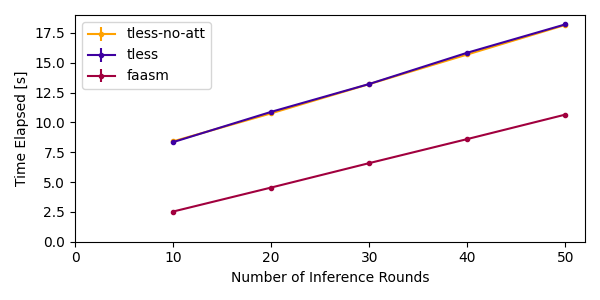
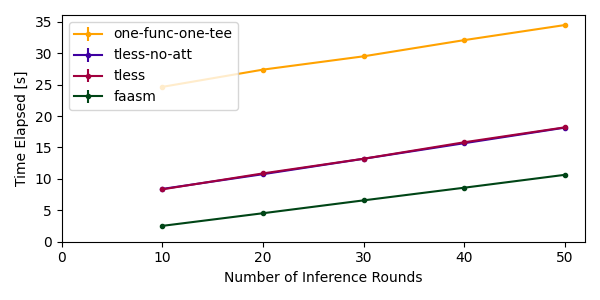
ss: add task to run the strong scaling experiment

diff --git a/tasks/strong_scaling.py b/tasks/strong_scaling.py
@@ -1,0 +1,202 @@
+from invoke import task
+from json import loads as json_loads
+from os import makedirs
+from os.path import exists, join
+from pprint import pprint
+from requests import post, put
+from tasks.util.faasm import (
+    fetch_latest_wasm,
+    flush_hosts,
+    get_faasm_exec_time_from_json,
+    get_faasm_invoke_host_port,
+    get_faasm_upload_host_port,
+)
+from tasks.util.env import (
+    PROJ_ROOT,
+    TLESS_DATA_FILES,
+    TLESS_FUNCTIONS,
+)
+from time import sleep
+
+SS_ROOT = join(PROJ_ROOT, "strong-scaling")
+NUM_NODES = 7
+NUM_CORES_PER_NODE = 4
+modes = {
+    "tless": {},
+    "tless-no-att": {"AZ_ATTESTATION_PROVIDER_URL": "off"},
+    "faasm": {"WASM_VM": "wamr"},
+    "strawman": {"ENCLAVE_ISOLATION_MODE": "faaslet"},
+}
+
+
+@task()
+def wasm(ctx, user_in=None, fetch=False):
+    """
+    Upload the Webassembly files for the TLess image processing pipeline. You
+    can fetch the latest version from the toolchain repo using sudo and --fetch
+    """
+    host, port = get_faasm_upload_host_port()
+    for f in TLESS_FUNCTIONS:
+        if user_in:
+            user = f[0]
+        else:
+            user = f[0]
+        func = f[1]
+        if fetch:
+            fetch_latest_wasm(user, func)
+
+        wasm_file = join(PROJ_ROOT, "wasm", user, func, "function.wasm")
+        if not exists(wasm_file):
+            print("Can not find wasm file: {}".format(wasm_file))
+            print("Consider running with `--fetch`: `inv upload.wasm --fetch`")
+            raise RuntimeError("WASM function not found")
+        url = "http://{}:{}/f/{}/{}".format(host, port, user, func)
+        print("Putting function to {}".format(url))
+        response = put(url, data=open(wasm_file, "rb"))
+        print("Response {}: {}".format(response.status_code, response.text))
+
+
+@task
+def data(ctx):
+    """
+    Upload the auxiliary data files for the TLess image processing pipeline
+    """
+    host, port = get_faasm_upload_host_port()
+    url = "http://{}:{}/file".format(host, port)
+
+    for df in TLESS_DATA_FILES:
+        host_path = df[0]
+        faasm_path = df[1]
+
+        if not exists(host_path):
+            print("Did not find data at {}".format(host_path))
+            raise RuntimeError("Did not find data file")
+
+        print(
+            "Uploading TLess data ({}) to {} ({})".format(
+                host_path, url, faasm_path
+            )
+        )
+        response = put(
+            url,
+            data=open(host_path, "rb"),
+            headers={"FilePath": faasm_path},
+        )
+
+        print("Response {}: {}".format(response.status_code, response.text))
+
+
+def _init_csv_file(m, np):
+    result_dir = join(SS_ROOT, "data")
+    makedirs(result_dir, exist_ok=True)
+
+    csv_name = "ss_{}_{}.csv".format(m, np)
+    csv_file = join(result_dir, csv_name)
+    with open(csv_file, "w") as out_file:
+        out_file.write("NumRun,TimeSec\n")
+
+
+def _write_csv_line(m, np, num_run, time_sec):
+    result_dir = join(SS_ROOT, "data")
+    csv_name = "ss_{}_{}.csv".format(m, np)
+    csv_file = join(result_dir, csv_name)
+    with open(csv_file, "a") as out_file:
+        out_file.write("{},{}\n".format(num_run, time_sec))
+
+
+def do_single_run(np):
+    """
+    Run `np` pipelines concurrently. Issue `np` asynchronous execution requests
+    and poll the messages until all of them have finished. Return the execution
+    time for each of them.
+    """
+    host, port = get_faasm_invoke_host_port()
+    url = "http://{}:{}".format(host, port)
+    num_inference_rounds = 50
+    msg_ids = set()
+    exec_times = []
+
+    # Post `np` asynchronous execution requests
+    for _ in range(np):
+        msg = {
+            "user": "tless",
+            "function": "pre",
+            "cmdline": "{}".format(num_inference_rounds),
+            "async": True,
+        }
+        print("Posting to {} msg:".format(url))
+        pprint(msg)
+
+        response = post(url, json=msg, timeout=None)
+        # Get the async message id
+        if response.status_code != 200:
+            print(
+                "Initial request failed: {}:\n{}".format(
+                    response.status_code, response.text
+                )
+            )
+        print("Response: {}".format(response.text))
+        msg_ids.add(int(response.text.strip()))
+
+    if len(msg_ids) != np:
+        print("Error: have not gathered enough message ids")
+        print("Expected: {} - Got: {}", np, len(msg_ids))
+        raise RuntimeError("Not enough results")
+
+
+    # Poll for the execution times
+    poll_interval = 2
+    while len(exec_times) != np:
+        for msg_id in msg_ids:
+            sleep(poll_interval)
+
+            status_msg = {
+                "user": "tless",
+                "function": "pre",
+                "status": True,
+                "id": msg_id,
+            }
+            response = post(url, json=status_msg)
+
+            if response.text.startswith("FAILED"):
+                raise RuntimeError("Call failed")
+            elif not response.text:
+                raise RuntimeError("Empty status response")
+            else:
+                # First, get the result from the response text
+                result_json = json_loads(response.text)
+                exec_times.append(get_faasm_exec_time_from_json(result_json))
+
+                # If we reach this point it means the call has succeeded
+                msg_ids.remove(msg_id)
+
+        print("Waiting for: [{}]".format(",".join(list(msg_ids))))
+
+    # Finally, return the execution times
+    return exec_times
+
+
+@task
+def run(ctx, mode="tless", parallel_pipelines=None):
+    # First, flush the host state
+    flush_hosts()
+
+    # Experiment Parameters
+    if parallel_pipelines:
+        num_pipelines = [parallel_pipelines]
+    else:
+        num_pipelines = [1, 2, 3, 4, 5]
+    # Do we need more than one repeat if we are already doing the average?
+    num_repeats = 3
+
+    # Run the experiment
+    for np in num_pipelines:
+        for rep in range(num_repeats):
+            exec_times = do_single_run(np)
+            for exec_time in exec_times:
+                _write_csv_line(mode, np, rep, exec_time)
+
+
+@task
+def plot(ctx):
+    pass

diff --git a/tasks/__init__.py b/tasks/__init__.py
@@ -1,13 +1,13 @@
 from invoke import Collection
 
 from . import attestation
-from . import weak_scaling
 from . import policy
-from . import upload
+from . import strong_scaling
+from . import weak_scaling
 
 ns = Collection(
     attestation,
     policy,
+    strong_scaling,
     weak_scaling,
-    upload,
 )

diff --git a/tasks/weak_scaling.py b/tasks/weak_scaling.py
@@ -164,7 +164,7 @@ def plot(ctx):
             yerr=ys_err,
             linestyle="-",
             marker=".",
-            label="{}".format(workload),
+            label="{}".format(workload if workload != "strawman" else "one-func-one-tee"),
             color=TLESS_PLOT_COLORS[ind],
         )
 

diff --git a/strong-scaling/reproduce.md b/strong-scaling/reproduce.md
@@ -1,0 +1,38 @@
+# Strong-Scaling Experiment
+
+## Provision the Kubernetes Cluster with IceLake Machines
+
+To create the cluster, run:
+
+```bash
+cd ${FAASM_EXP_BASE_DIR}
+source ./bin/workon.sh
+inv cluster.provision --vm Standard_DC4s_v3 --nodes 4 --location eastus2 --sgx
+inv cluster.credentials
+```
+
+Then, deploy the cluster:
+
+```bash
+cd ${FAASM_DIR}
+source ./bin/workon.sh
+inv k8s.deploy --workers=4 --sgx
+```
+
+You may open the `k9s` tool to monitor the cluster:
+
+```bash
+k9s
+```
+
+## Upload data and functions to the Kubernetes cluster
+
+To upload the data and WebAssembly required to run the image processing
+pipelines, run:
+
+```bash
+cd ${EXP_SGX_DIR}
+source ../../bin/workon.sh
+inv strong-scaling.data
+inv strong-scaling.wasm
+```
